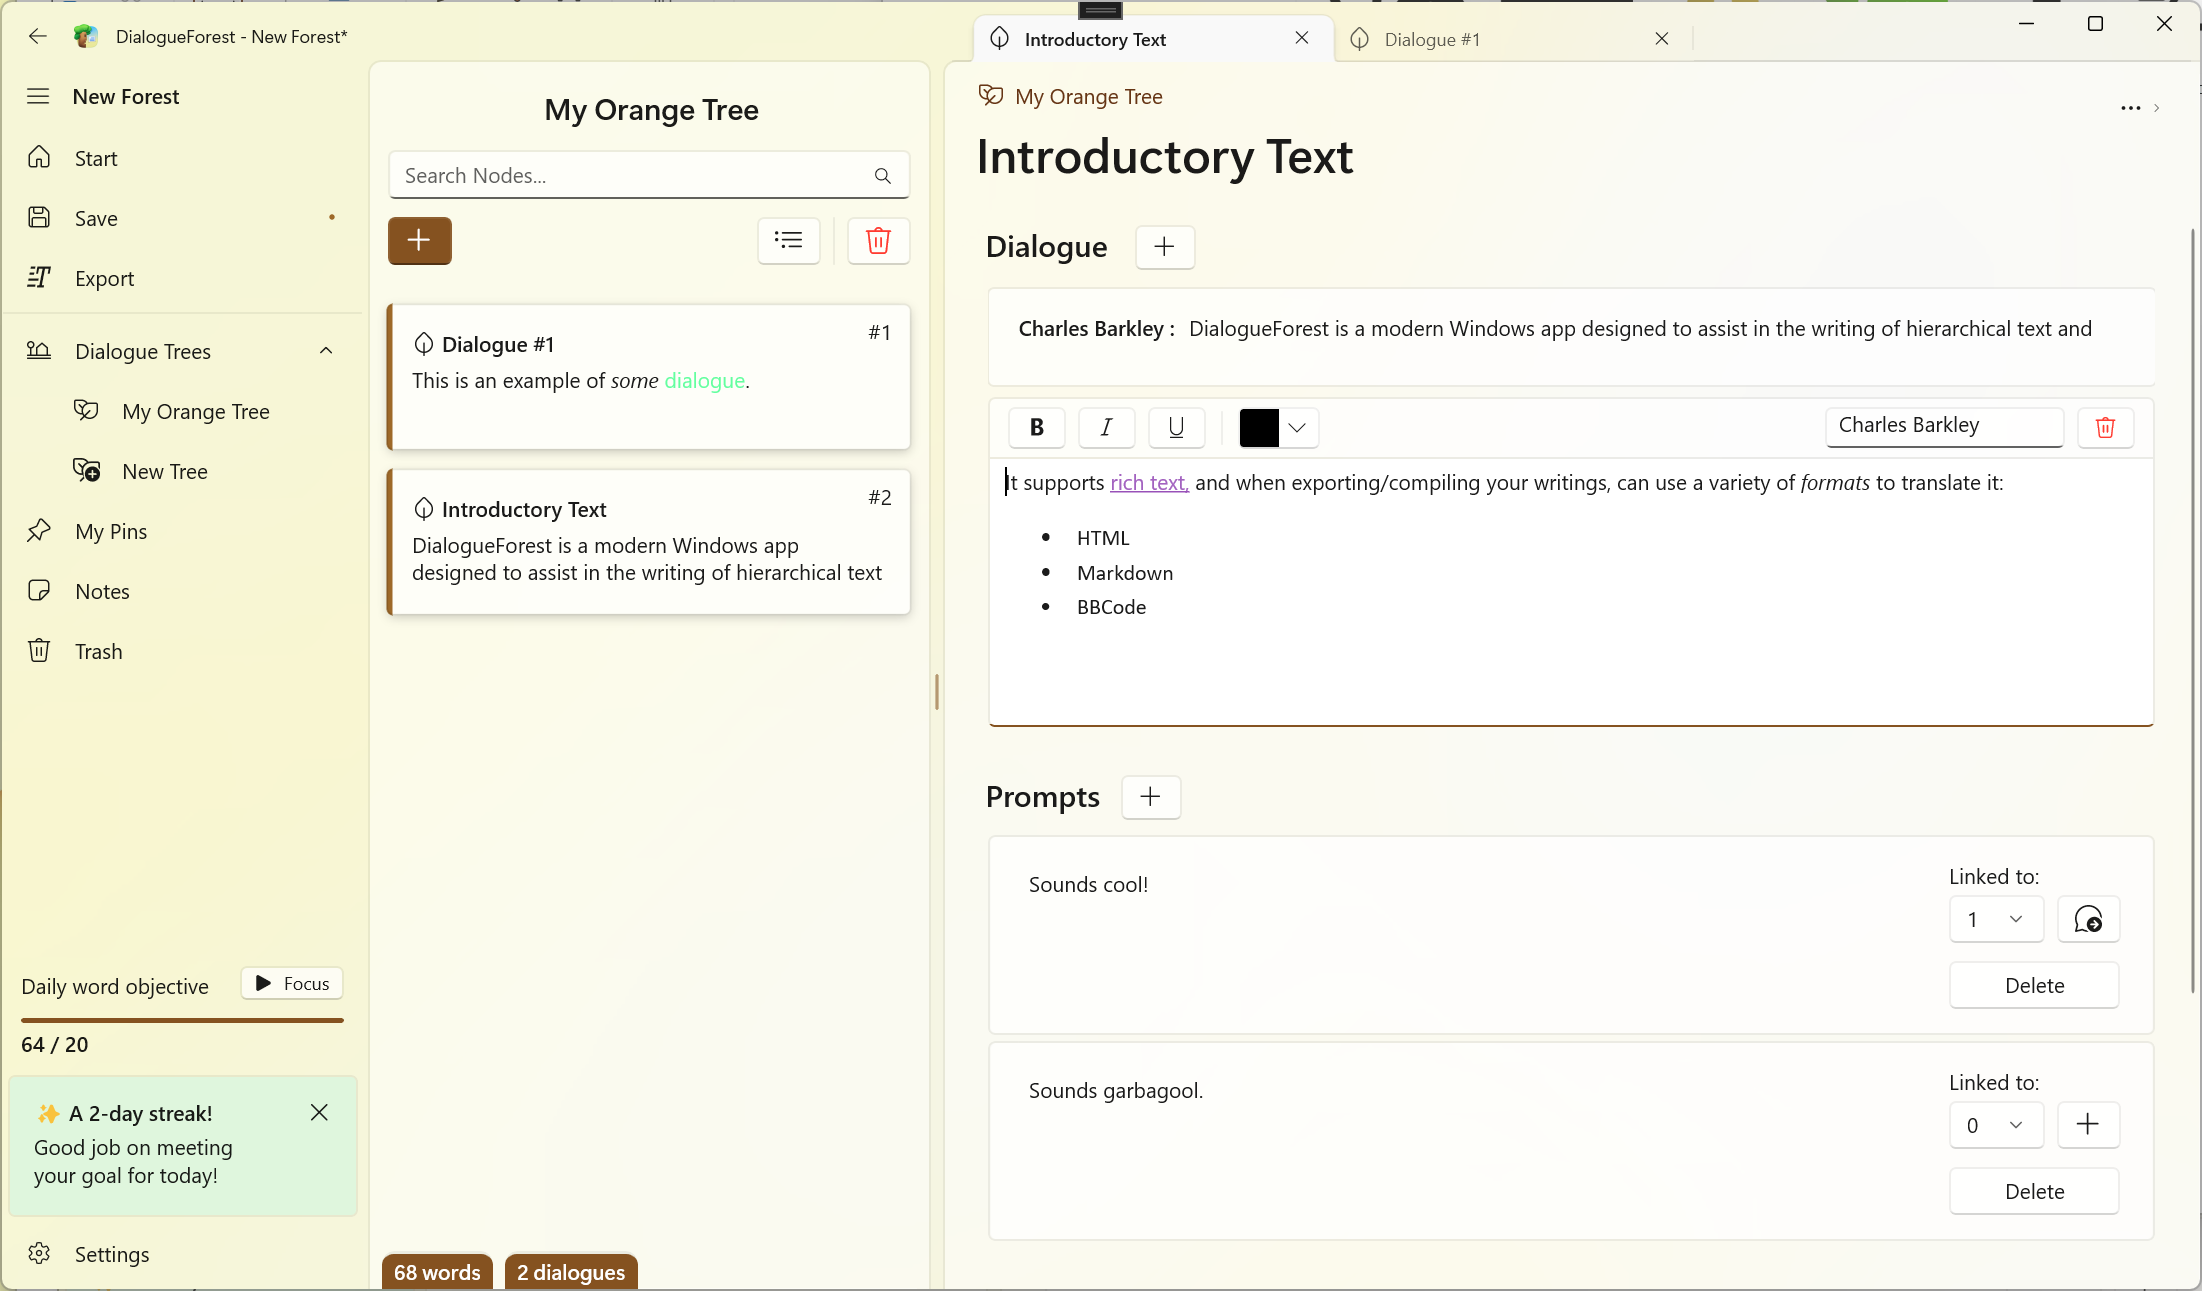
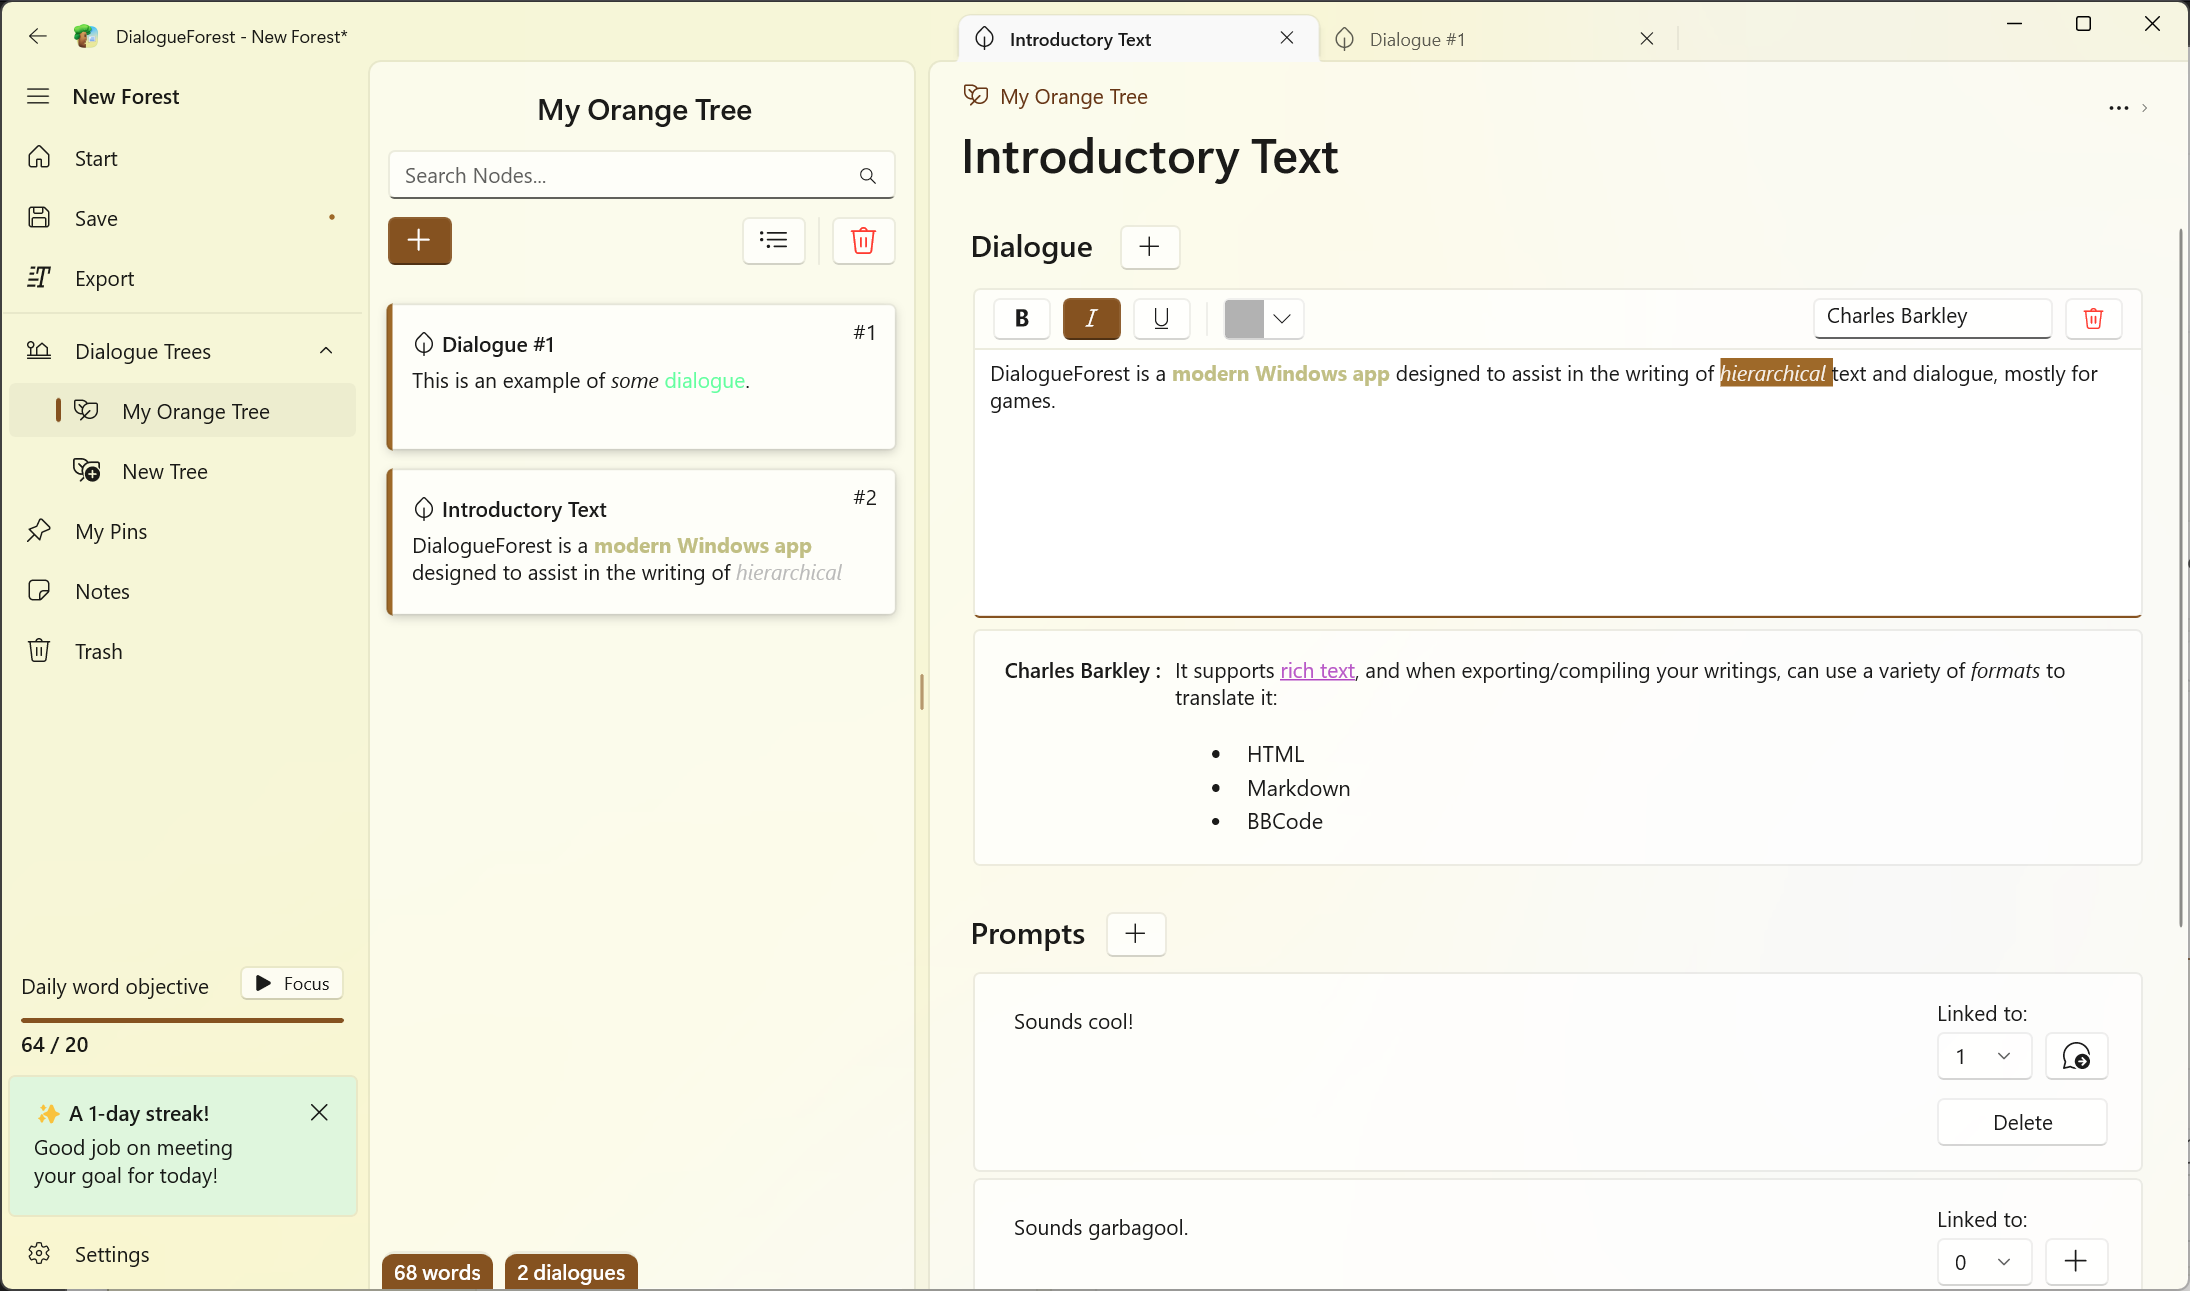
Bugfixing, yet another screenshot update

diff --git a/DialogueForest/Views/DialogueNodePage.xaml b/DialogueForest/Views/DialogueNodePage.xaml
@@ -43,7 +43,7 @@
 
         <DataTemplate x:Key="DialogPartTemplate" x:DataType="viewmodels:DialoguePartViewModel">
             <Grid>
-                <Grid Style="{StaticResource CardGrid}" ui:FrameworkElementExtensions.Cursor="IBeam" Margin="-1,1"
+                <Grid Style="{StaticResource CardGrid}" ui:FrameworkElementExtensions.Cursor="IBeam" Margin="0,1"
                       Visibility="{x:Bind IsActive, Mode=OneWay, Converter={StaticResource ReverseBoolToVisibilityConverter}}">
                     <Grid.ColumnDefinitions>
                         <ColumnDefinition Width="Auto"/>
@@ -57,7 +57,7 @@
                                Grid.Column="0" />
 
                     <local:BindableRichEditBox Background="Transparent" BorderThickness="0" IsHitTestVisible="False" 
-                                               Padding="0" Grid.Column="1" 
+                                               Padding="0" Grid.Column="1" TextWrapping="Wrap"
                                                RtfText="{x:Bind RtfDialogueText, Mode=OneWay}" />
                     <i:Interaction.Behaviors>
                         <ic:EventTriggerBehavior EventName="Tapped">

diff --git a/DialogueForest/App.xaml.cs b/DialogueForest/App.xaml.cs
@@ -80,7 +80,6 @@ namespace DialogueForest
 
             var theme = Ioc.Default.GetRequiredService<IApplicationStorageService>().GetValue<string>(nameof(SettingsViewModel.ElementTheme));
             Enum.TryParse(theme, out Theme elementTheme);
-            await Ioc.Default.GetRequiredService<IInteropService>().SetThemeAsync(elementTheme);
 
             _ = Task.Run(async () =>
             {
@@ -98,6 +97,9 @@ namespace DialogueForest
 
             _window.WindowContent = shell;
             _window.Activate();
+
+            // We can only set the theme after the window has activated
+            await Ioc.Default.GetRequiredService<IInteropService>().SetThemeAsync(elementTheme);
         }
 
         private void OnAppUnhandledException(object sender, Microsoft.UI.Xaml.UnhandledExceptionEventArgs e)

diff --git a/DialogueForest/Services/InteropService.cs b/DialogueForest/Services/InteropService.cs
@@ -55,6 +55,7 @@ namespace DialogueForest.Services
             {
                 if ((Application.Current as App)?.Window.WindowContent is FrameworkElement frameworkElement)
                 {
+                    // TODO: Settings Default here after having changed the RequestedTheme once doesn't work. (I blame winappsdk)
                     frameworkElement.RequestedTheme = theme;
                     UpdateTitleBar(theme);
                 }
